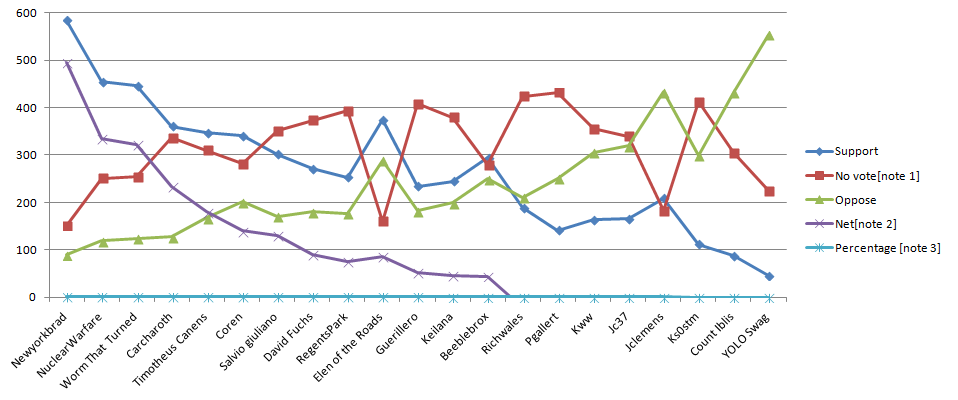
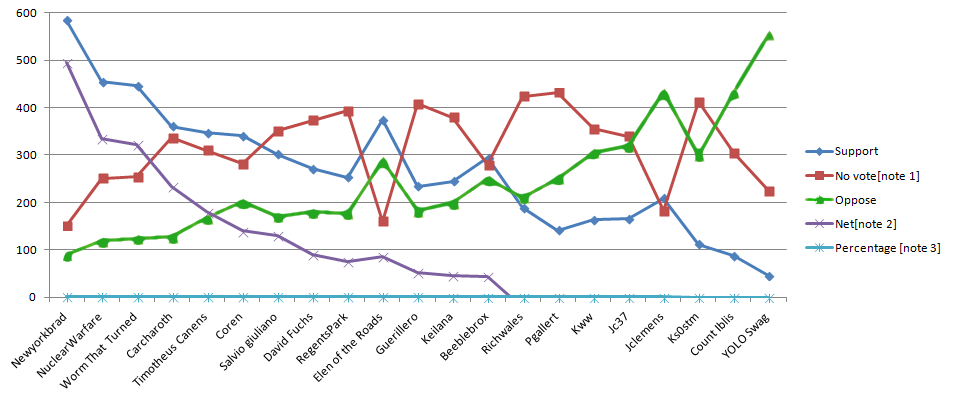
Fixing typos and updating graphic with more contrast.

diff --git a/understanding/21/non-text-contrast.html b/understanding/21/non-text-contrast.html
@@ -40,7 +40,7 @@
 
 				<p>If components use several colors, any color which does not interfere with identifying the component can be ignored for the purpose of measuring contrast ratio. For example, a 3D drop-shadow on an input, or a dark border line between contrasting backgrounds is considered to be subsumed into the color closest in brightness (luminance).</p>
 
-				<p>The following example shows an input that has a light background on the inside and a dark background around it. The input also has a dark grey border which [is considered to be subsumed] into the dark background. The border does not interfere with identifying the component, so the contrast ratio is taken between the white background and dark blue background.</p>
+				<p>The following example shows an input that has a light background on the inside and a dark background around it. The input also has a dark grey border which is considered to be subsumed into the dark background. The border does not interfere with identifying the component, so the contrast ratio is taken between the white background and dark blue background.</p>
 
 				<figure>
 					<img alt="A text box with a dark background and light border, with a white background." src="img/text-input-background-border.png" />
@@ -58,7 +58,7 @@
 
 				<figure>
 					<img alt="Three radio buttons, the first a plain circle marked unselected. The second shows the circle filled with the same color as the border. The third has a slightly darker filling than the border." src="img/radio-custom.png" />
-					<figcaption>The first radio button shows the default state, the second and third show the radio button selected, and filled with a color that contasts with the color adjacent to the component. The last example shows the selected state indicator contrasting with the component's inner background.</figcaption>
+					<figcaption>The first radio button shows the default state, the second and third show the radio button selected and filled with a color that contrasts with the color adjacent to the component. The last example shows the selected state indicator contrasting with the component's inner background.</figcaption>
 				</figure>
 
 				<h4 id="related-scs">Relationship with Use of Color and Focus Visible</h4>
@@ -221,9 +221,9 @@
 							<td><!-- Sourced from wikipedia under CC sharealike license https://en.wikipedia.org/wiki/File:Simple_line_graph_of_ACE_2012_results_by_candidate_sj01.png -->
 								<a href="img/simple-line-graph.png"><img src="img/simple-line-graph.png" alt="A line chart of votes across a region, with 4 lines of different colors tracking over time." width="200" /></a></td>
 
-							<td><p>In order to understand the graph you need to discern the lines and shapes for each condition. Therefore each line and colored shape is a &#8216;graphical object&#8217; in the graph and should be over 3:1 against the white background. Most of them have good contrast except the green triangles.</p>
+							<td><p>In order to understand the graph you need to discern the lines and shapes for each condition. To perceive the values of each line along the chart you need to discern the grey lines marking the graduated 100 value increments.</p>
 							<p>The graphical objects are the lines in the graph, including the background lines for the values, and the colored lines with shapes.</p>
-							<p>The lines should have 3:1 contrast against their background, but as there is little overlap with other lines they do not need to contrast with each other. (See the testing principles below.)</p>
+							<p>The lines should have 3:1 contrast against their background, but as there is little overlap with other lines they do not need to contrast with each other or the graduated lines. (See the testing principles below.)</p>
 						</td>
 
 						</tr>
